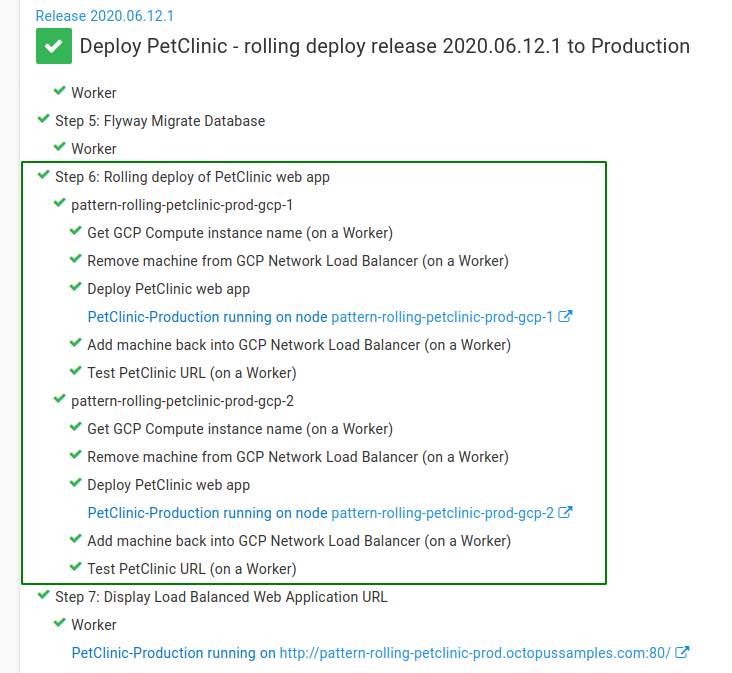
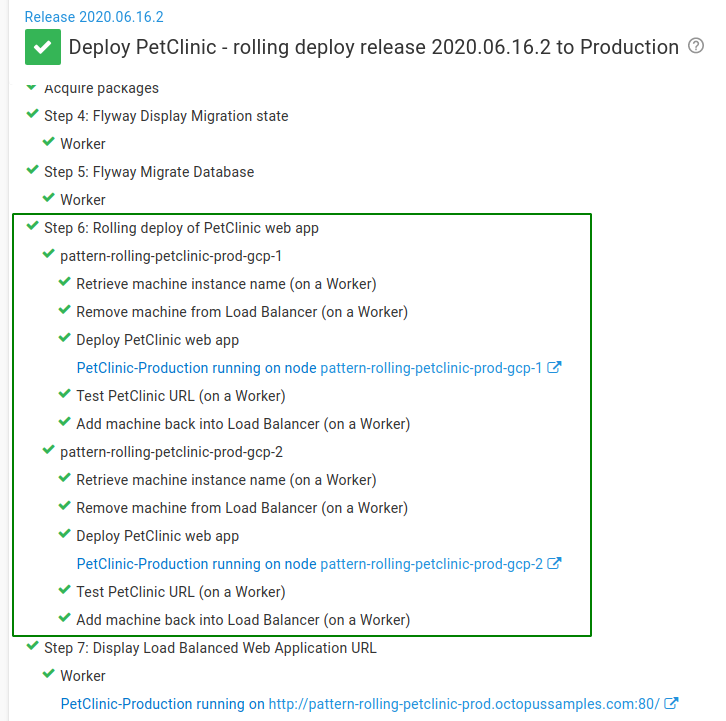
Final edits and changes to images

Changed region(s): [[0.0, 0.0, 0.9697, 0.9985]]

diff --git a/blog/2020-07/convert-to-rolling-deployments/index.md b/blog/2020-07/convert-to-rolling-deployments/index.md
@@ -247,7 +247,7 @@ To reorder the child steps:
 
 #### The rolling deployment process
 
-Some of the steps in the rolling deployment process aren’t required for the `Development` Environment. This is because in that environment, we’re not using a load balancer. To skip the steps which don’t need to run, we can make use of an Environment [run condition](https://octopus.com/docs/deployment-process/conditions#environments). This will skip the steps used for the load-balanced environments. 
+Some of the steps in the rolling deployment process aren’t required for the `Development` Environment. This is because we’re not using a load balancer in that environment. To skip the steps which don’t need to run, we can make use of an Environment [run condition](https://octopus.com/docs/deployment-process/conditions#environments). This will skip the steps applicable to the load-balanced environments when deploying to `Development`.
 
 The complete rolling deployment process is shown here: 
 
@@ -255,7 +255,6 @@ The complete rolling deployment process is shown here:
 
 You can see an example of a deployment to `Production` using the new rolling deployment process:
 
-**TODO: Change image to reflect new child-step names**
 ![Project rolling deployment run](project-rolling-deployment-run.png)
 
 And that’s it! We’ve successfully converted our deployment process from a sequential one to a rolling deployment process.
@@ -267,26 +266,21 @@ You can see the complete PetClinic deployment process **after** the conversion t
 
 ### Switch over to new Infrastructure
 
+In order to utilise our new infrastructure, we need to direct our users to our application via the load balancer. The simplest way to do that is to adjust your DNS records. In the case of PetClinic, I just need to adjust the DNS [A record](https://en.wikipedia.org/wiki/List_of_DNS_record_types) to point to the load balancer, and wait for the DNS changes to update.
+
 :::warning
-Switching your DNS over may result in downtime.
+Changing any DNS records may result in a period of time where users are still connecting directly to the virtual machines. This is usually no more than 24 hours, but will depend on your DNS provider and how long the DNS changes take to propagate.
 :::
 
 ### Clean-up
 
-At this point, you can clean up your old Octopus project by either disabling it, and effectively archiving it, or delete it if you no longer need it for any audit requirements.
-
-:::success
-**Sample Octopus Projects**
-You can see the before and after of the project conversion discussed here in our samples instance.
-
-- [PetClinic project - with no rolling deployments](https://g.octopushq.com/PatternRollingSamplePetClinicNoRollingDeploy)
-- [PetClinic project - with rolling deployments](https://g.octopushq.com/PatternRollingSamplePetClinicRollingDeploy)
-- [PetClinic Infrastructure Runbooks](https://g.octopushq.com/PatternRollingSamplePetClinicIacRunbooks)
-:::
+At this point, you no longer need your old Octopus project. You can clean it up by either disabling it (and effectively archiving it), or delete it if you no longer need it for any audit requirements.
 
 ## Conclusion
 
-TODO
+As you can hopefully see from this post, with a few steps, you can switch from a sequential deployment process in Octopus to one utilising the rolling deployments feature. This allows you to benefit from reduced downtime, safe in the knowledge that your application can remain online to serve requests to your users.
+
+Until next time, Happy Deployments! 
 
 ## Learn more
 - [Octopus Rolling deployments docs](https://octopus.com/docs/deployment-patterns/rolling-deployments)
